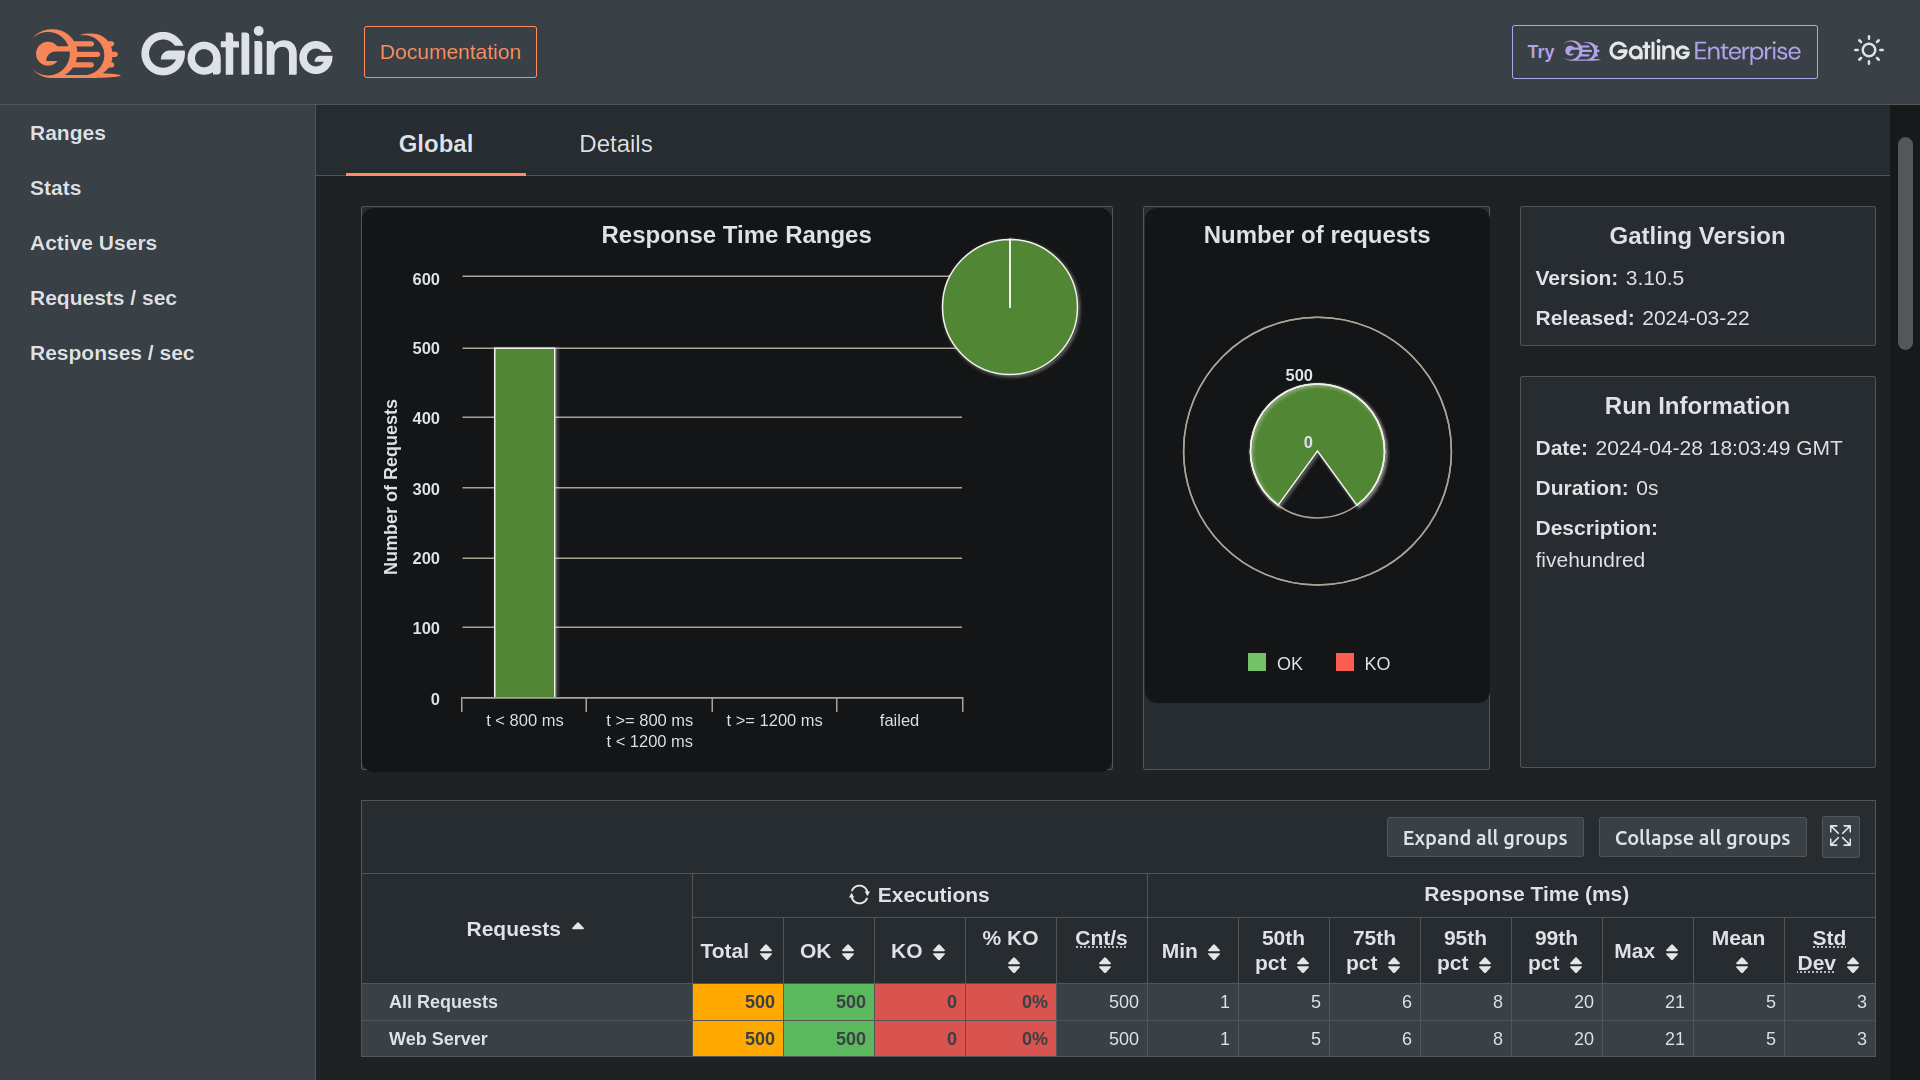
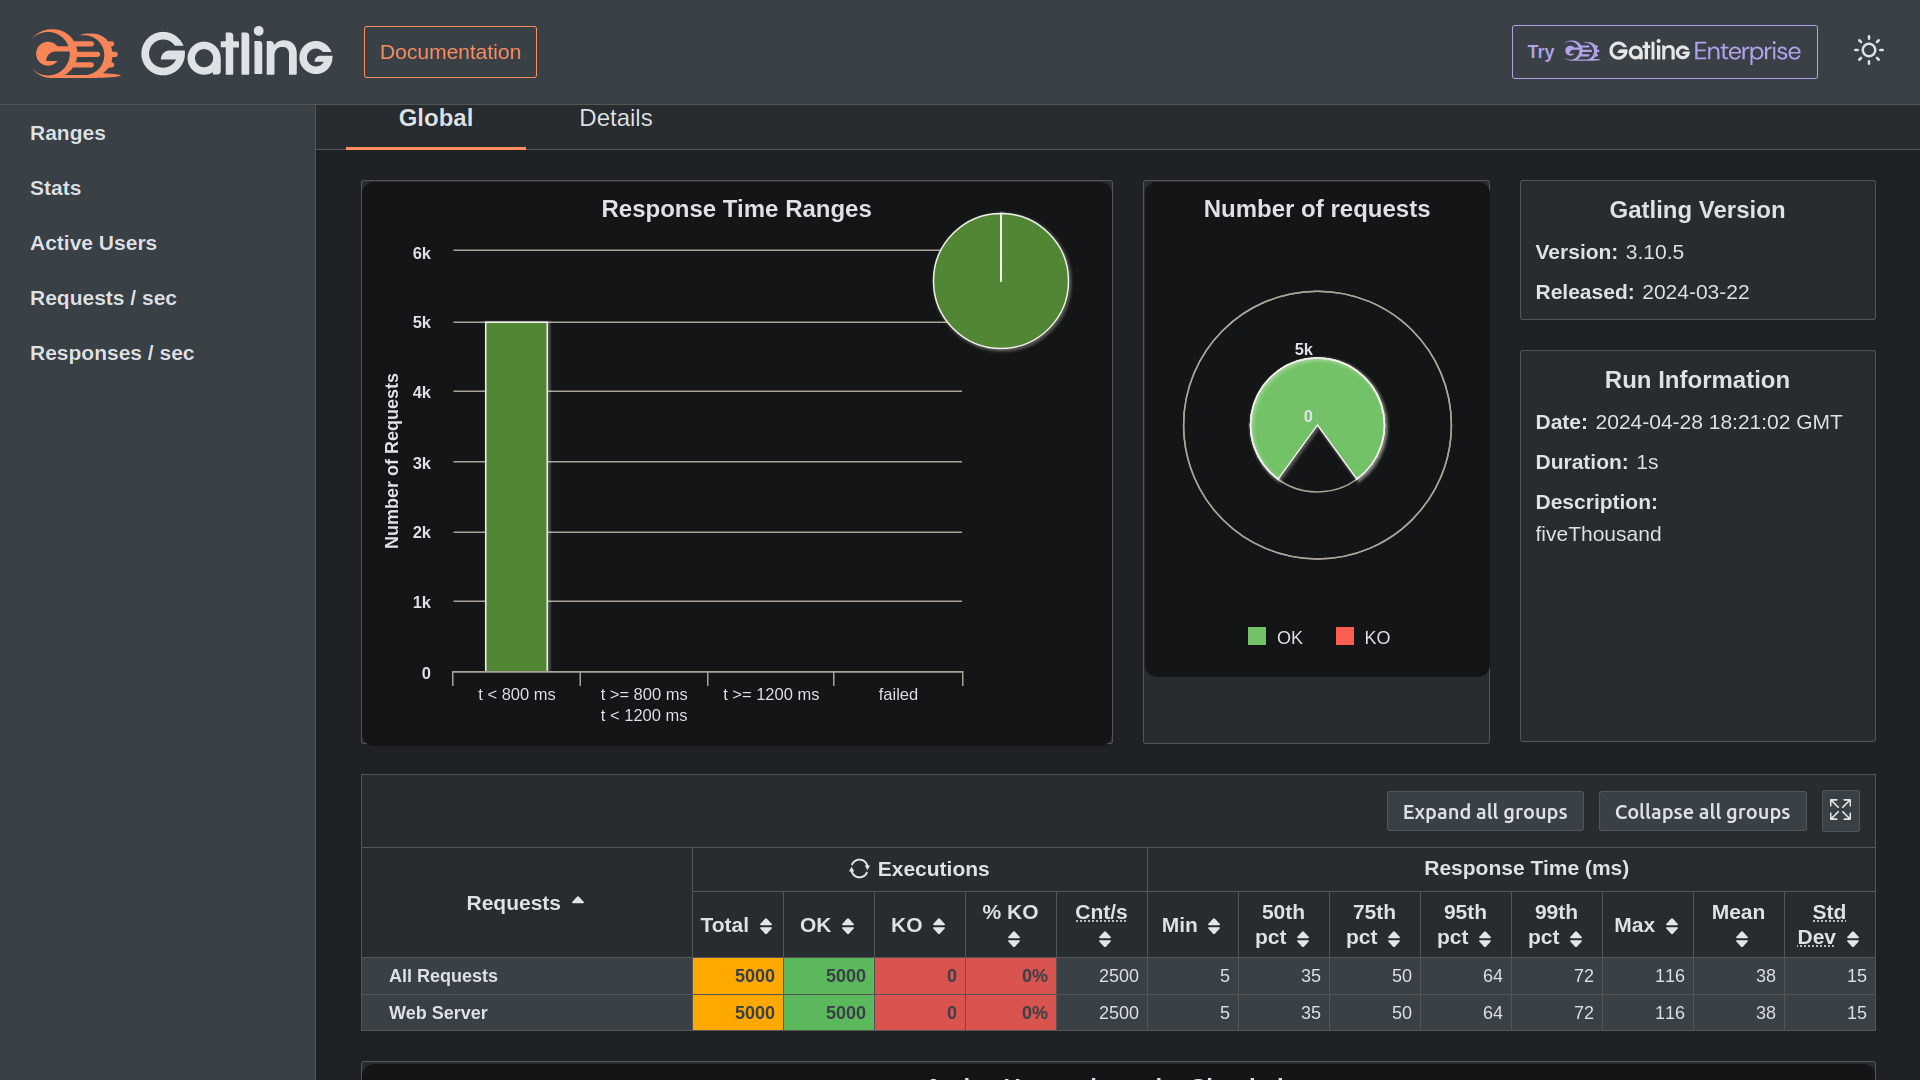
update README and image

diff --git a/README.md b/README.md
@@ -171,10 +171,10 @@ So... run the interactive simulation with:
 ./runGatling.sh
 ```
 
-The results are in `gatling/results/.../index.html`. Here's what it looks like:
+Here's what the Terminal output looks like:
 
 ```bash
-./runGatling.sh
+$ ./runGatling.sh
 GATLING_HOME is set to /home/spam/Projects/modern-systems-scala-native/gatling
 Do you want to run the simulation locally, on Gatling Enterprise, or just package it?
 Type the number corresponding to your choice and press enter
@@ -187,46 +187,48 @@ Type the number corresponding to your choice and press enter
 Gatling 3.11.1 is available! (you're using 3.10.5)
 ch05.loadSimulation.GenericSimulation is the only simulation, executing it.
 Select run description (optional)
-
+fiveThousand
 Simulation ch05.loadSimulation.GenericSimulation started...
 
 ================================================================================
-2024-04-28 17:58:31 GMT                                       0s elapsed
+2024-04-28 18:21:04 GMT                                       2s elapsed
 ---- Requests ------------------------------------------------------------------
-> Global                                                   (OK=50     KO=0     )
-> Web Server                                               (OK=50     KO=0     )
+> Global                                                   (OK=5000   KO=0     )
+> Web Server                                               (OK=5000   KO=0     )
 
 ---- Test scenario -------------------------------------------------------------
 [##########################################################################]100%
-          waiting: 0      / active: 0      / done: 10
+          waiting: 0      / active: 0      / done: 100
 ================================================================================
 
-Simulation ch05.loadSimulation.GenericSimulation completed in 0 seconds
+Simulation ch05.loadSimulation.GenericSimulation completed in 2 seconds
 Parsing log file(s)...
 Parsing log file(s) done in 0s.
 Generating reports...
 
 ================================================================================
 ---- Global Information --------------------------------------------------------
-> request count                                         50 (OK=50     KO=0     )
-> min response time                                      2 (OK=2      KO=-     )
-> max response time                                     25 (OK=25     KO=-     )
-> mean response time                                     9 (OK=9      KO=-     )
-> std deviation                                          6 (OK=6      KO=-     )
-> response time 50th percentile                          6 (OK=6      KO=-     )
-> response time 75th percentile                          9 (OK=9      KO=-     )
-> response time 95th percentile                         20 (OK=20     KO=-     )
-> response time 99th percentile                         23 (OK=23     KO=-     )
-> mean requests/sec                                     50 (OK=50     KO=-     )
+> request count                                       5000 (OK=5000   KO=0     )
+> min response time                                      5 (OK=5      KO=-     )
+> max response time                                    116 (OK=116    KO=-     )
+> mean response time                                    38 (OK=38     KO=-     )
+> std deviation                                         15 (OK=15     KO=-     )
+> response time 50th percentile                         35 (OK=35     KO=-     )
+> response time 75th percentile                         50 (OK=50     KO=-     )
+> response time 95th percentile                         64 (OK=64     KO=-     )
+> response time 99th percentile                         72 (OK=72     KO=-     )
+> mean requests/sec                                   2500 (OK=2500   KO=-     )
 ---- Response Time Distribution ------------------------------------------------
-> t < 800 ms                                            50 (100%)
+> t < 800 ms                                          5000 (100%)
 > 800 ms <= t < 1200 ms                                  0 (  0%)
 > t >= 1200 ms                                           0 (  0%)
 > failed                                                 0 (  0%)
 ================================================================================
 
-Reports generated, please open the following file: file:///home/spam/Projects/modern-systems-scala-native/gatling/results/genericsimulation-20240428175830462/index.html
+Reports generated, please open the following file: file:///home/spam/Projects/modern-systems-scala-native/gatling/results/genericsimulation-20240428182101491/index.html
 ```
+
+The graphical results are in `gatling/results/.../index.html`.
 
 ![gatling-simul](images/simul.png)
 
